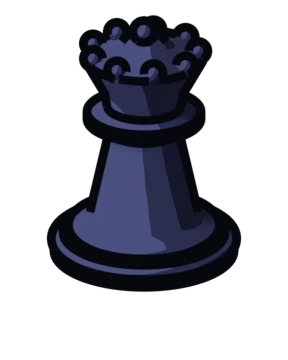
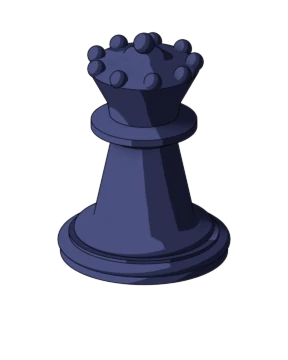
Pieces at FIDE Staunton height ratios, thinner outlines

Changed region(s): [[0.1562, 0.0306, 0.8438, 0.825], [0.5625, 0.4278, 0.5938, 0.55], [0.5938, 0.55, 0.625, 0.6417]]

diff --git a/index.html b/index.html
@@ -99,7 +99,7 @@
   .sq.sel .pc{z-index:3}
   .sq.sel .pc::after{transform:translateY(-11%) scale(1.07)}
   .sq.sel .pc::before{transform:scale(.72);opacity:.55}
-  .pc.t-p{--sw:.52}.pc.t-n{--sw:.57}.pc.t-b{--sw:.54}.pc.t-r{--sw:.57}.pc.t-q{--sw:.6}.pc.t-k{--sw:.61}
+  .pc.t-p{--sw:.52}.pc.t-n{--sw:.56}.pc.t-b{--sw:.56}.pc.t-r{--sw:.58}.pc.t-q{--sw:.6}.pc.t-k{--sw:.62}
   .pc.w.t-p{--img:url(pieces/wp.webp)}.pc.w.t-n{--img:url(pieces/wn.webp)}.pc.w.t-b{--img:url(pieces/wb.webp)}.pc.w.t-r{--img:url(pieces/wr.webp)}.pc.w.t-q{--img:url(pieces/wq.webp)}.pc.w.t-k{--img:url(pieces/wk.webp)}
   .pc.b.t-p{--img:url(pieces/bp.webp)}.pc.b.t-n{--img:url(pieces/bn.webp)}.pc.b.t-b{--img:url(pieces/bb.webp)}.pc.b.t-r{--img:url(pieces/br.webp)}.pc.b.t-q{--img:url(pieces/bq.webp)}.pc.b.t-k{--img:url(pieces/bk.webp)}
   .sq.check .pc::after{animation:kshake .5s ease-in-out}

diff --git a/sw.js b/sw.js
@@ -1,6 +1,6 @@
 // 오프라인용 서비스 워커: 한 번 열어 두면 인터넷이 없어도 열려요.
 // 인터넷이 될 때는 항상 새 버전을 받아 와서 저장하고, 안 되면 저장해 둔 것을 보여 줘요.
-const CACHE = 'chess-v3';
+const CACHE = 'chess-v4';
 const FILES = ['./', './index.html', './manifest.json', './icon-180.png', './icon-192.png', './icon-512.png', ...['p','n','b','r','q','k'].flatMap(t => ['w','b'].map(c => './pieces/' + c + t + '.webp'))];
 
 self.addEventListener('install', e => {

diff --git a/pieces-blender.py b/pieces-blender.py
@@ -6,9 +6,13 @@ ONLY = sys.argv[sys.argv.index('--')+2] if len(sys.argv) > sys.argv.index('--')+
 os.makedirs(OUT, exist_ok=True)
 ELEV = math.radians(24)
 KING_H = 0.92
-LINE = 3.0
+LINE = 1.0
 LINECOL = (0.03, 0.03, 0.05)
-TARGET = {'p': .44, 'n': .58, 'b': .61, 'r': .67, 'q': .70, 'k': .74}
+# FIDE 장비 규정의 스탠턴 기물 키(cm): 킹 9.5 · 퀸 8.5 · 비숍 7 · 나이트 6 · 룩 5.5 · 폰 5
+TARGET = {'p': 5.0, 'n': 6.0, 'b': 7.0, 'r': 5.5, 'q': 8.5, 'k': 9.5}
+# 받침 지름(칸 너비 대비): 아이 눈에 잘 보이게 조금 통통하게, 룩은 낮고 넓은 성탑
+BASE_D = {'p': .50, 'n': .54, 'b': .54, 'r': .56, 'q': .58, 'k': .60}
+BASE_R = {'p': .30, 'n': .33, 'b': .31, 'r': .33, 'q': .34, 'k': .35}
 W, H = 288, 360
 
 def reset():
@@ -166,10 +170,10 @@ for t in 'pnbrqk':
             if ob.hide_render: continue
             dg = bpy.context.evaluated_depsgraph_get(); ev = ob.evaluated_get(dg)
             for v in ev.to_mesh().vertices: top = max(top, (ob.matrix_world @ v.co).z)
-        s = KING_H*TARGET[t]/TARGET['k']/top
+        s = KING_H*TARGET[t]/TARGET['k']/top; sxy = BASE_D[t]/2/BASE_R[t]
         body, eye = materials(c)
         for ob in [o for o in bpy.data.objects if o.type == 'MESH']:
-            ob.scale = [x*s for x in ob.scale]; ob.location = Vector(ob.location)*s
+            ob.scale = (ob.scale[0]*sxy, ob.scale[1]*sxy, ob.scale[2]*s); ob.location = Vector((ob.location[0]*sxy, ob.location[1]*sxy, ob.location[2]*s))
         for ob in parts:
             if ob.type == 'MESH':
                 ob.data.materials.clear(); ob.data.materials.append(eye if ob.get('eye') else body)
